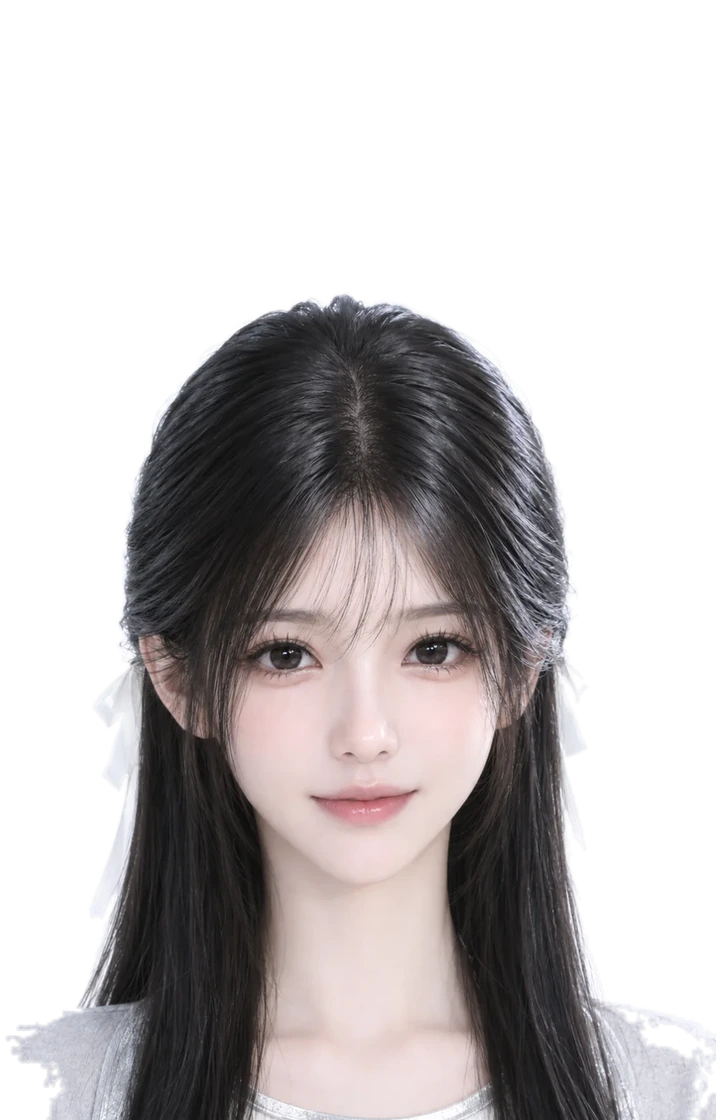
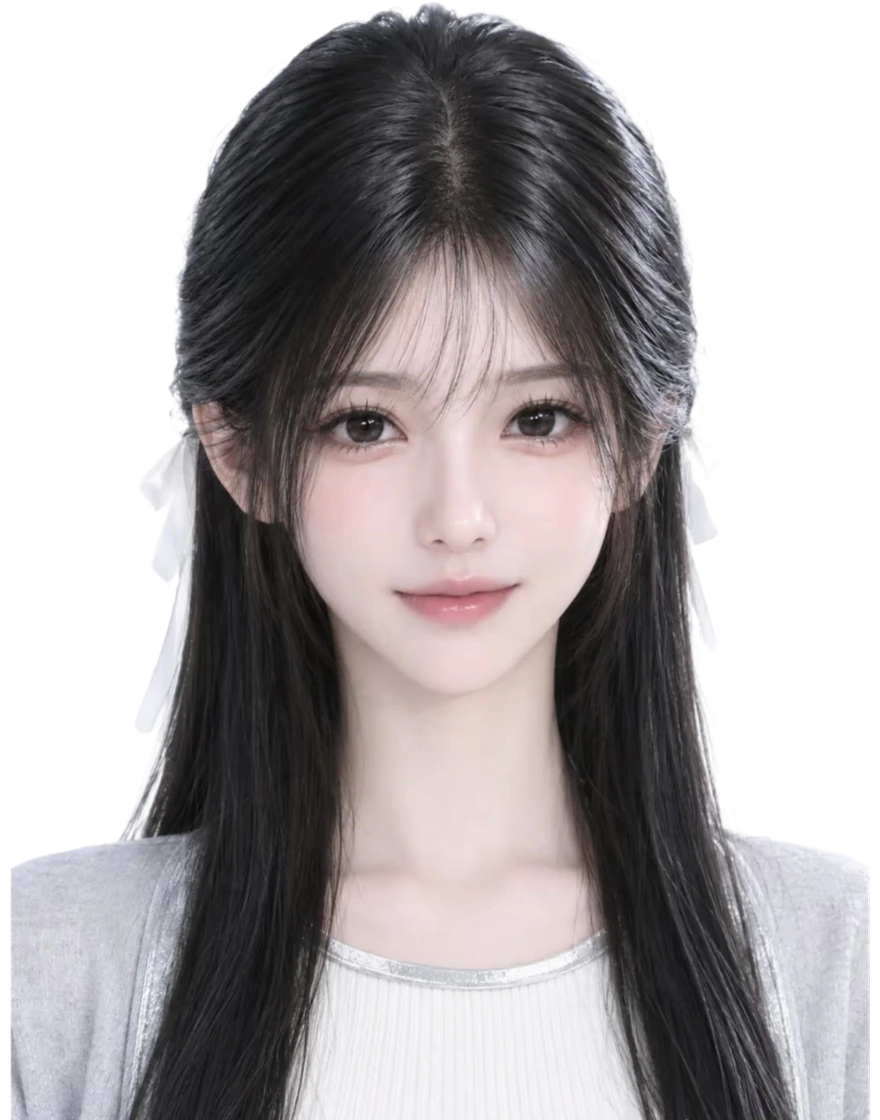
UI优化第二版

diff --git a/css/style.css b/css/style.css
@@ -425,11 +425,11 @@ a:hover {
 /* ----------------------------- 5. 立绘 ------------------------------ */
 .vn-sprite {
   position: absolute;
-  left: 2%;
+  left: 1%;
   bottom: 0;
   z-index: var(--z-sprite);
-  width: min(470px, 38vw);
-  height: min(85vh, 780px);
+  width: min(510px, 38vw);
+  height: min(86vh, 800px);
   display: flex;
   align-items: flex-end;
   justify-content: center;
@@ -761,19 +761,15 @@ a:hover {
 /* ----------------------------- 8. 选项条 ------------------------------ */
 .vn-choices {
   position: absolute;
-  left: 50%;
-  bottom: 202px;
+  left: 57%;
+  bottom: 200px;
   transform: translateX(-50%);
   z-index: var(--z-choice);
-  display: flex;
-  flex-direction: column;
-  justify-content: flex-end;
-  gap: 12px;
-  width: min(430px, 84vw);
-  max-height: 56vh;
-  overflow-y: auto;
+  display: grid;
+  grid-template-columns: 1fr 1fr;
+  gap: 10px 14px;
+  width: min(560px, 86vw);
   padding: 4px;
-  scrollbar-width: none;
 }
 
 .vn-choices::-webkit-scrollbar {
@@ -783,14 +779,15 @@ a:hover {
 .vn-choice {
   position: relative;
   display: flex;
+  flex-direction: column;
   align-items: center;
   justify-content: center;
-  gap: var(--sp-3);
-  min-height: 58px;
-  padding: 10px 22px;
+  gap: 2px;
+  min-height: 64px;
+  padding: 9px 12px;
   border-radius: var(--r-md);
   font-size: 18px;
-  letter-spacing: 0.18em;
+  letter-spacing: 0.14em;
   color: #fff;
   text-shadow: 0 1px 6px rgba(24, 48, 88, 0.45);
   background:
@@ -829,14 +826,15 @@ a:hover {
 }
 
 .vn-choice__meta {
-  font-size: var(--t-xs);
-  letter-spacing: 0.04em;
+  font-size: 11px;
+  letter-spacing: 0.02em;
   color: rgba(255, 255, 255, 0.82);
   text-shadow: none;
   white-space: nowrap;
 }
 
 .vn-choice--gold {
+  grid-column: 1 / -1;
   color: #6b4708;
   text-shadow: 0 1px 0 rgba(255, 255, 255, 0.7);
   background:
@@ -1581,7 +1579,7 @@ a:hover {
   position: static;
   transform: none;
   align-self: center;
-  max-height: none;
+  grid-template-columns: 1fr;
   width: min(430px, 84vw);
   margin-bottom: 6px;
 }
@@ -2255,23 +2253,29 @@ a:hover {
 
   .vn-sprite {
     left: 0;
-    width: min(330px, 46vw);
-    height: min(70vh, 560px);
+    width: min(300px, 34vw);
+    height: min(66vh, 520px);
     opacity: 0.95;
   }
 
-  .vn-text {
-    font-size: 17px;
+  .vn-choices {
+    left: 63%;
+    width: min(500px, 86vw);
+    gap: 8px 10px;
   }
 
   .vn-choice {
-    min-height: 52px;
+    min-height: 56px;
     font-size: 16px;
-    letter-spacing: 0.14em;
+    letter-spacing: 0.1em;
   }
 
   .vn-choice__meta {
     font-size: 10px;
+  }
+
+  .vn-text {
+    font-size: 17px;
   }
 }
 
@@ -2312,8 +2316,8 @@ a:hover {
 
   .vn-sprite {
     left: 0;
-    width: 64vw;
-    height: 60vh;
+    width: 78vw;
+    height: 62vh;
     opacity: 0.95;
   }
 
@@ -2345,10 +2349,11 @@ a:hover {
   .vn-choices {
     display: grid;
     grid-template-columns: 1fr 1fr;
-    bottom: 148px;
+    left: 50%;
+    top: 78px;
+    bottom: auto;
     width: 94vw;
     gap: 8px;
-    max-height: 40vh;
   }
 
   .vn-choices--event {

diff --git a/assets/README.md b/assets/README.md
@@ -52,9 +52,12 @@ assets/
 
 **规格**
 
-- 透明底，竖版，建议 **720×1120**（源图 900×1400 亦可），单张 ≤ 300KB
-- 半身像：**人物底边贴齐画布底边**，头顶留约 3% 空白
-- 从白底照片转透明时已做去白边处理；如果你给的新图是白底，我会照同样流程处理
+- 透明底（已抠图），竖版半身像
+- **统一画布比例 11:14**（内部 1100×1400，输出 880×1120 webp），两张图必须同比例，
+  否则游戏里一高一矮
+- 人物**底边贴齐画布底边**、水平居中；头顶留约 2% 空白
+- 单张 ≤ 300KB
+- 现在用的是你提供的已抠图版本（无白边）；如果给的是白底原图，我再走下面的处理流程
 
 ---
 
@@ -80,14 +83,14 @@ APPEARANCES.push({
 
 ---
 
-## 5. 处理流程备忘（白底照片 → 立绘）
+## 5. 处理流程备忘（新图归一化）
 
-1. 裁到半身（头 → 胸/上臂），底边水平切齐；
-2. 从边缘 flood fill 白底 → alpha；
-3. 去白边（边界内侧按白度削 alpha + 半透明像素按白底反解颜色）；
-4. 收 1px、羽化 1px，输出 720×1120 webp。
+1. 取你给的透明图 → 去掉透明边距，得到人物包围盒；
+2. 等比缩放到高度 1400（宽度不足时按宽度适配）；
+3. 在 1100×1400 画布上**水平居中、底部对齐**（两张图用同一画布，保证比例一致）；
+4. 输出 880×1120 webp（q92）。
 
-> 换新立绘时把原图发我即可，流程可复用。
+> 如果是白底照片：先裁半身 → 边缘 flood fill 白底 → 去白边（边界内侧按白度削 alpha + 半透明像素按白底反解颜色）→ 再走上面 2–4 步。
 
 ---
 

diff --git a/docs/UI_视觉与交互规范.md b/docs/UI_视觉与交互规范.md
@@ -19,7 +19,7 @@
 |---|---|---|---|
 | 标题页 | 启动 / 返回标题 | 徽记 + 标题 + 竖排菜单 + 导入存档 | `.vn-title` `.vn-menu-btn` |
 | 创建角色（6 步） | 开始新游戏 | 左：立绘预览 + 角色摘要；右：步骤表单 | `.vn-create` `.vn-step` `.vn-opt` `.vn-tag` |
-| 主舞台 | 新游戏 / 读档 | 背景层 + 立绘 + HUD + 选项条 + 对话框 | `.vn-stage` `.vn-sprite` `.vn-hud` `.vn-choices` `.vn-dialogue` |
+| 主舞台 | 新游戏 / 读档 | 背景层 + 立绘 + HUD + 选项条（2 列 × 3 行）+ 对话框 | `.vn-stage` `.vn-sprite` `.vn-hud` `.vn-choices` `.vn-dialogue` |
 | 事件弹层 | 回合触达事件 | 暗化场景 + 事件名 + 选项 + 对话框正文 | `.vn-event` `.vn-choices--event` |
 | 结局 | 第 40 回合 | 整屏渐变 + 结局卡 + 属性回顾 | `.vn-ending` |
 | 菜单抽屉 | HUD ☰ | 右侧玻璃面板：保存/读取/回放/设置/商城 | `.vn-drawer` `.vn-scrim` |
@@ -38,6 +38,11 @@
 .vn-choices       底部上方的行动条（AP=0 时只剩金色「进入下一周」）
 .vn-dialogue      底部对话框：说话人牌 + 正文 + 效果 chips + ▼
 ```
+
+**选项条布局**：6 个基础行动固定 **2 列 × 3 行**（`.vn-choices` 用 grid，整体居中偏右，给左侧立绘让位；
+`left: 57%`）。AP 用尽时金色「进入下一周」跨两列（`grid-column: 1 / -1`）。
+**突发事件的选项不受此影响**：`.vn-choices--event` 强制单列，居中显示在对话框上方。
+窄屏（≤560px）时两列布局整体移到顶部，避免压住立绘的脸。
 
 行动 → 背景的映射在 `ACTION_SCENE`（图已就位，`ART.enabled = true`）：
 
